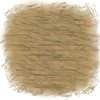
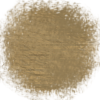
New images

diff --git a/www/imgtest.php b/www/imgtest.php
@@ -53,7 +53,31 @@ $stamp1 = imagecreatefrompng('graphics/tree1.png');
 $stamp2 = imagecreatefrompng('graphics/bush1.png');
 $stamp3 = imagecreatefrompng('graphics/bush2.png');
 $stamp4 = imagecreatefrompng('graphics/bush3.png');
-$stamps = array($stamp1, $stamp2, $stamp3, $stamp4);
+$stamp5 = imagecreatefrompng('graphics/rock1.png');
+$stamp6 = imagecreatefrompng('graphics/rock2.png');
+$stamp7 = imagecreatefrompng('graphics/rock3.png');
+$stamp8 = imagecreatefrompng('graphics/rock4.png');
+$stamp9 = imagecreatefrompng('graphics/rock5.png');
+$stamp10 = imagecreatefrompng('graphics/rock6.png');
+$stamp11 = imagecreatefrompng('graphics/rockmoss1.png');
+$stamp12 = imagecreatefrompng('graphics/rockmoss2.png');
+$stamp13 = imagecreatefrompng('graphics/rockmoss3.png');
+$stamp14 = imagecreatefrompng('graphics/rockmoss4.png');
+$stamp15 = imagecreatefrompng('graphics/rockmoss5.png');
+$stamp16 = imagecreatefrompng('graphics/rockmoss6.png');
+$stamp17 = imagecreatefrompng('graphics/rockwater1.png');
+$stamp18 = imagecreatefrompng('graphics/rockwater2.png');
+$stamp19 = imagecreatefrompng('graphics/rockwater3.png');
+$stamp20 = imagecreatefrompng('graphics/rockwater4.png');
+$stamp21 = imagecreatefrompng('graphics/rockwater5.png');
+$stamp22 = imagecreatefrompng('graphics/rockwater6.png');
+$stamp23 = imagecreatefrompng('graphics/rockgrass1.png');
+$stamp24 = imagecreatefrompng('graphics/rockgrass2.png');
+$stamp25 = imagecreatefrompng('graphics/rockgrass3.png');
+$stamp26 = imagecreatefrompng('graphics/rockgrass4.png');
+$stamp27 = imagecreatefrompng('graphics/rockgrass5.png');
+$stamp28 = imagecreatefrompng('graphics/rockgrass6.png');
+$stamps = array($stamp1, $stamp2, $stamp3, $stamp4, $stamp5, $stamp6, $stamp7, $stamp8, $stamp9, $stamp10, $stamp11, $stamp12, $stamp13, $stamp14, $stamp15, $stamp16, $stamp17, $stamp18, $stamp19, $stamp20, $stamp21, $stamp22, $stamp23, $stamp24, $stamp25, $stamp26, $stamp27, $stamp28);
 
 
 $im = imagecreatetruecolor(1000,700);
@@ -89,7 +113,7 @@ for ($j = 0; $j<$grasscount; $j++) {
 
 for ($row = 0; $row<600; $row+=20) {
 		for ($i = rand(0,$density); $i<900; $i+=rand(20,$density)) {
-			$im = applyStamp($im, $stamps[rand(0,3)], $i, $row);
+			$im = applyStamp($im, $stamps[rand(0,27)], $i, $row);
 		}
 }
 
